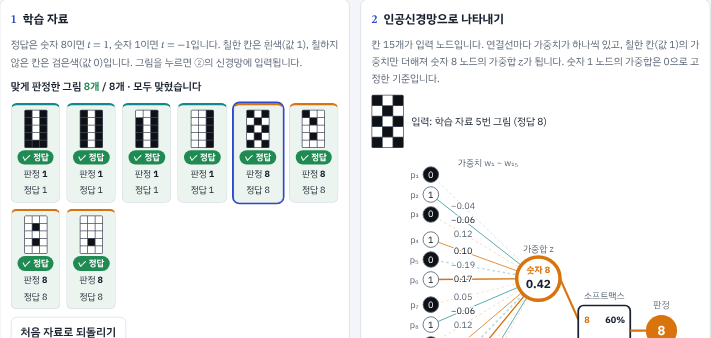
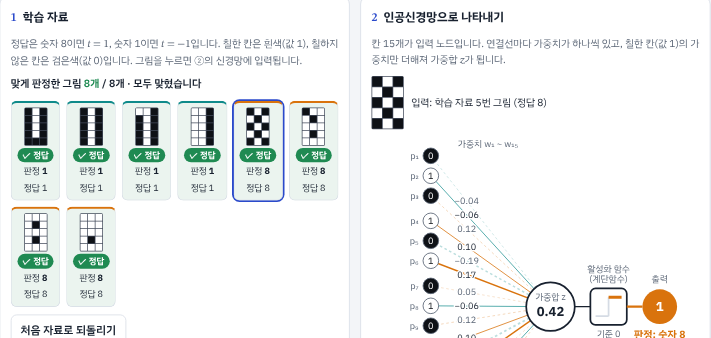
화소별 가중치 앱: 가중합을 예측값으로 설명하고 활성화 함수를 계단함수로 되돌림
- ①에 가중합 z_i를 예측값으로 보는 설명 추가, ②~③과 계산 과정을 (예측값 − 정답)으로 통일
- 출력 노드 1개 + 계단함수(z > 0이면 1=숫자 8, z ≤ 0이면 −1=숫자 1)로 판정, 소프트맥스 내용 삭제
- 손실함수를 활성화 함수 전 예측값으로 계산하는 이유(계단함수 기울기 0) 설명
- 정답/오답 표시와 15개 변수 학습 설명은 유지, 썸네일·카드 설명 갱신

Claude-Session: https://claude.ai/code/session_01N6eLL6FyNoD26bLn9wJ4ce

diff --git a/digit-weights/index.html b/digit-weights/index.html
@@ -205,7 +205,7 @@ h3{font-size:14.5px;margin:6px 0 0}
 .cnow{color:var(--eight);font-weight:600}
 .spd{font-size:12.5px;color:var(--sub);display:flex;align-items:center;gap:4px}
 .cfin{color:var(--accent)}
-/* ===== 소프트맥스·정답 표시·15개 변수 학습 (추가) ===== */
+/* ===== 정답 표시·15개 변수 학습 (추가) ===== */
 .okline{font-size:14px;font-weight:600;margin:0}
 .okline .g{color:var(--good)} .okline .x{color:var(--bad)}
 .s.right{background:color-mix(in srgb,var(--good) 9%,var(--panel))}
@@ -244,7 +244,7 @@ h3{font-size:14.5px;margin:6px 0 0}
 <header>
   <a href="../#tools" style="display:inline-block;margin:0 0 10px;color:#2563eb;font-size:14px;font-weight:700;text-decoration:none">← 연수 자료실</a>
   <h1>화소별 가중치로 숫자 구분하기</h1>
-  <p id="intro">3×5 격자의 칸마다 가중치를 하나씩 두고, 칠한 칸의 가중치를 모두 더한 <b>가중합</b> <span class="m"><i>z</i></span>로 숫자 1과 8을 구분합니다. 출력 노드는 ‘숫자 8’(가중합 <span class="m"><i>z</i></span>)과 ‘숫자 1’(가중합 0으로 고정) 두 개이고, <b>소프트맥스</b>로 확률을 구해 확률이 큰 숫자로 판정합니다. 학습하는 가중치는 15개입니다.</p>
+  <p id="intro">3×5 격자의 칸마다 가중치를 하나씩 두고, 칠한 칸의 가중치를 모두 더한 <b>가중합</b> <span class="m"><i>z</i></span>로 숫자 1과 8을 구분합니다. 활성화 함수는 <b>계단함수</b>로, 가중합이 0보다 크면 1(숫자 8), 0 이하이면 −1(숫자 1)을 출력합니다. 학습하는 가중치는 15개입니다.</p>
 </header>
 
 <div class="cols">
@@ -258,11 +258,11 @@ h3{font-size:14.5px;margin:6px 0 0}
 
 <section aria-labelledby="hn">
   <h2 id="hn"><span class="n">2</span>인공신경망으로 나타내기</h2>
-  <p class="note">칸 15개가 입력 노드입니다. 연결선마다 가중치가 하나씩 있고, 칠한 칸(값 1)의 가중치만 더해져 숫자 8 노드의 가중합 <span class="m"><i>z</i></span>가 됩니다. 숫자 1 노드의 가중합은 0으로 고정한 기준입니다.</p>
+  <p class="note">칸 15개가 입력 노드입니다. 연결선마다 가중치가 하나씩 있고, 칠한 칸(값 1)의 가중치만 더해져 가중합 <span class="m"><i>z</i></span>가 됩니다.</p>
   <div class="fedinfo" id="fedinfo"></div>
-  <div class="netwrap"><svg id="net" viewBox="0 0 346 392" role="img" aria-label="입력 노드 15개, 출력 노드 2개, 소프트맥스로 이루어진 인공신경망"></svg></div>
+  <div class="netwrap"><svg id="net" viewBox="0 0 346 392" role="img" aria-label="입력 노드 15개, 출력 노드 1개, 계단함수로 이루어진 인공신경망"></svg></div>
   <div class="legend"><span><i style="background:var(--eight)"></i>양수 가중치</span><span><i style="background:var(--one)"></i>음수 가중치</span><span>선이 굵을수록 절댓값이 큽니다</span></div>
-  <p class="note">활성화 함수는 <b>소프트맥스</b>입니다. <span class="m"><i>P</i>(8) = <span class="frac"><span><i>e</i><sup><i>z</i></sup></span><span><i>e</i><sup><i>z</i></sup> + <i>e</i><sup>0</sup></span></span></span>, <span class="m"><i>P</i>(1) = <span class="frac"><span><i>e</i><sup>0</sup></span><span><i>e</i><sup><i>z</i></sup> + <i>e</i><sup>0</sup></span></span></span>이고 두 확률의 합은 1입니다. 확률이 더 큰 숫자로 판정하므로 <span class="m"><i>z</i> &gt; 0</span>이면 8, <span class="m"><i>z</i> ≤ 0</span>이면 1입니다. (<span class="m"><i>z</i> = 0</span>이면 두 확률이 50%로 같고, 이때는 1로 판정합니다.)</p>
+  <p class="note">활성화 함수는 <b>계단함수</b>입니다. <span class="m"><i>f</i>(<i>z</i>) = 1 (<i>z</i> &gt; 0)</span>, <span class="m"><i>f</i>(<i>z</i>) = −1 (<i>z</i> ≤ 0)</span>이고, 출력이 1이면 숫자 8, −1이면 숫자 1로 판정합니다. 정답도 숫자 8이면 1, 숫자 1이면 −1로 두었으므로 출력과 정답이 같으면 맞게 판정한 것입니다.</p>
 </section>
 </div>
 
@@ -273,18 +273,19 @@ h3{font-size:14.5px;margin:6px 0 0}
       <div class="hd">① 그림마다 가중합 구하기</div>
       <p><span class="m"><i>i</i></span>번째 그림의 <span class="m"><i>k</i></span>번째 칸의 값을 <span class="m"><i>p</i><sub><i>i</i>,<i>k</i></sub></span>라 하면, <span class="m"><i>p</i><sub><i>i</i>,<i>k</i></sub></span>는 그 칸을 칠했으면 1, 아니면 0입니다. <span class="m"><i>i</i></span>번째 그림의 가중합 <span class="m"><i>z</i><sub><i>i</i></sub></span>는 다음과 같습니다.</p>
       <div class="formula"><i>z</i><sub><i>i</i></sub> = <i>w</i><sub>1</sub><i>p</i><sub><i>i</i>,1</sub> + <i>w</i><sub>2</sub><i>p</i><sub><i>i</i>,2</sub> + ⋯ + <i>w</i><sub>15</sub><i>p</i><sub><i>i</i>,15</sub></div>
-      <p>예를 들어 1번 그림의 가중합은 <span class="m"><i>z</i><sub>1</sub> = <i>w</i><sub>1</sub><i>p</i><sub>1,1</sub> + <i>w</i><sub>2</sub><i>p</i><sub>1,2</sub> + ⋯ + <i>w</i><sub>15</sub><i>p</i><sub>1,15</sub></span>입니다. 가중치 <span class="m"><i>w</i><sub>1</sub>, ⋯, <i>w</i><sub>15</sub></span>는 모든 그림에 똑같이 쓰이고, 그림마다 달라지는 것은 칸의 값뿐입니다. <span class="m"><i>i</i></span>번째 그림의 정답은 <span class="m"><i>t</i><sub><i>i</i></sub></span>라 하겠습니다.</p>
+      <p>예를 들어 1번 그림의 가중합은 <span class="m"><i>z</i><sub>1</sub> = <i>w</i><sub>1</sub><i>p</i><sub>1,1</sub> + <i>w</i><sub>2</sub><i>p</i><sub>1,2</sub> + ⋯ + <i>w</i><sub>15</sub><i>p</i><sub>1,15</sub></span>입니다. 가중치 <span class="m"><i>w</i><sub>1</sub>, ⋯, <i>w</i><sub>15</sub></span>는 모든 그림에 똑같이 쓰이고, 그림마다 달라지는 것은 칸의 값뿐입니다.</p>
+      <p>이 가중합 <span class="m"><i>z</i><sub><i>i</i></sub></span>를 <span class="m"><i>i</i></span>번째 그림에 대한 인공신경망의 <b>예측값</b>으로 봅니다. <span class="m"><i>i</i></span>번째 그림의 정답을 <span class="m"><i>t</i><sub><i>i</i></sub></span>라 하면(숫자 8이면 1, 숫자 1이면 −1), 예측값 <span class="m"><i>z</i><sub><i>i</i></sub></span>가 정답 <span class="m"><i>t</i><sub><i>i</i></sub></span>에 가까울수록 잘 예측한 것입니다.</p>
     </div>
     <div class="mstep">
-      <div class="hd">② 15개 변수의 손실함수</div>
+      <div class="hd">② 15개 변수의 손실함수: (예측값 − 정답)<sup>2</sup>의 평균</div>
       <div class="formula"><i>L</i>(<i>w</i><sub>1</sub>, <i>w</i><sub>2</sub>, ⋯, <i>w</i><sub>15</sub>) = <span class="frac"><span>1</span><span><i>n</i></span></span>{(<i>z</i><sub>1</sub> − <i>t</i><sub>1</sub>)<sup>2</sup> + (<i>z</i><sub>2</sub> − <i>t</i><sub>2</sub>)<sup>2</sup> + ⋯ + (<i>z</i><sub><i>n</i></sub> − <i>t</i><sub><i>n</i></sub>)<sup>2</sup>}</div>
-      <p><span class="m"><i>n</i></span>은 그림의 수입니다. <span class="m"><i>z</i><sub><i>i</i></sub></span>가 가중치 15개로 이루어져 있으므로 <span class="m"><i>L</i></span>은 15개 변수의 함수입니다. 판정은 소프트맥스 확률로 하지만, 손실함수는 다항함수의 미분만으로 다룰 수 있도록 소프트맥스를 거치기 전의 가중합 <span class="m"><i>z</i></span>와 정답의 차로 계산합니다. (실제 분류 모델은 소프트맥스를 거친 확률로 손실함수를 계산합니다.)</p>
+      <p><span class="m"><i>n</i></span>은 그림의 수입니다. 그림마다 예측값과 정답의 차 <span class="m"><i>z</i><sub><i>i</i></sub> − <i>t</i><sub><i>i</i></sub></span>(오차)를 제곱해 평균한 값이 손실함수이고, 예측값이 정답에 가까울수록 <span class="m"><i>L</i></span>의 값이 작아집니다. <span class="m"><i>z</i><sub><i>i</i></sub></span>가 가중치 15개로 이루어져 있으므로 <span class="m"><i>L</i></span>은 15개 변수의 함수입니다. 판정은 계단함수의 출력으로 하지만, 손실함수는 활성화 함수를 거치기 전의 가중합, 즉 예측값 <span class="m"><i>z</i><sub><i>i</i></sub></span>와 정답의 차로 계산합니다. 계단함수는 기울기가 0인 구간뿐이라 계단함수의 출력으로 손실함수를 만들면 기울기가 0이 되어 경사하강법으로 가중치를 움직일 수 없기 때문입니다.</p>
     </div>
     <div class="mstep">
       <div class="hd">③ 가중치 하나에 대한 기울기 (편미분)</div>
       <p>나머지 14개의 가중치를 상수로 보면 <span class="m"><i>z</i><sub><i>i</i></sub> = <i>p</i><sub><i>i</i>,<i>k</i></sub><i>w</i><sub><i>k</i></sub> + (상수)</span>이므로 <span class="m">(<i>z</i><sub><i>i</i></sub> − <i>t</i><sub><i>i</i></sub>)<sup>2</sup></span>은 <span class="m"><i>w</i><sub><i>k</i></sub></span>에 대한 이차식이고, <span class="m"><i>w</i><sub><i>k</i></sub></span>에 대하여 미분하면 <span class="m">2(<i>z</i><sub><i>i</i></sub> − <i>t</i><sub><i>i</i></sub>) × <i>p</i><sub><i>i</i>,<i>k</i></sub></span>입니다. 이렇게 한 변수만 남기고 미분한 것을 <b>편미분</b>이라 하고 <span class="m"><span class="frac"><span>∂<i>L</i></span><span>∂<i>w</i><sub><i>k</i></sub></span></span></span>로 나타냅니다.</p>
       <div class="formula"><span class="frac"><span>∂<i>L</i></span><span>∂<i>w</i><sub><i>k</i></sub></span></span> = <span class="frac"><span>2</span><span><i>n</i></span></span>{(<i>z</i><sub>1</sub> − <i>t</i><sub>1</sub>)<i>p</i><sub>1,<i>k</i></sub> + (<i>z</i><sub>2</sub> − <i>t</i><sub>2</sub>)<i>p</i><sub>2,<i>k</i></sub> + ⋯ + (<i>z</i><sub><i>n</i></sub> − <i>t</i><sub><i>n</i></sub>)<i>p</i><sub><i>n</i>,<i>k</i></sub>}</div>
-      <p><span class="m"><i>k</i></span>번째 칸을 칠하지 않은 그림은 <span class="m"><i>p</i><sub><i>i</i>,<i>k</i></sub> = 0</span>이라 빠집니다. 그래서 <b><span class="m"><i>k</i></span>번째 칸을 칠한 그림의 (가중합 − 정답)만 더해</b> <span class="m"><span class="frac"><span>2</span><span><i>n</i></span></span></span>을 곱하면 됩니다. 예를 들어 숫자 8 그림인데 <span class="m"><i>z</i><sub><i>i</i></sub></span>가 1보다 작으면 <span class="m"><i>z</i><sub><i>i</i></sub> − <i>t</i><sub><i>i</i></sub> &lt; 0</span>이라 그 그림이 칠한 칸의 기울기를 음수 쪽으로 당기고, 아래 ④에서 그 칸의 가중치가 커집니다.</p>
+      <p><span class="m"><i>k</i></span>번째 칸을 칠하지 않은 그림은 <span class="m"><i>p</i><sub><i>i</i>,<i>k</i></sub> = 0</span>이라 빠집니다. 그래서 <b><span class="m"><i>k</i></span>번째 칸을 칠한 그림의 (예측값 − 정답)만 더해</b> <span class="m"><span class="frac"><span>2</span><span><i>n</i></span></span></span>을 곱하면 됩니다. 예를 들어 숫자 8 그림인데 예측값 <span class="m"><i>z</i><sub><i>i</i></sub></span>가 정답 1보다 작으면 <span class="m"><i>z</i><sub><i>i</i></sub> − <i>t</i><sub><i>i</i></sub> &lt; 0</span>이라 그 그림이 칠한 칸의 기울기를 음수 쪽으로 당기고, 아래 ④에서 그 칸의 가중치가 커집니다.</p>
     </div>
     <div class="mstep">
       <div class="hd">④ 15개를 동시에 이동</div>
@@ -329,7 +330,7 @@ h3{font-size:14.5px;margin:6px 0 0}
     <div class="track" id="track"></div>
     <div class="axis2 num" id="axis2"></div>
   </div>
-  <p class="note">가로축은 가중합 <span class="m"><i>z</i></span>입니다. 기준선(<span class="m"><i>z</i> = 0</span>, <span class="m"><i>P</i>(8) = 50%</span>)의 오른쪽은 8, 왼쪽은 1로 판정합니다. 빨간 테두리는 오답입니다.</p>
+  <p class="note">가로축은 가중합 <span class="m"><i>z</i></span>입니다. 기준선(<span class="m"><i>z</i> = 0</span>)의 오른쪽은 8, 왼쪽(기준선 포함)은 1로 판정합니다. 빨간 테두리는 오답입니다.</p>
   <div class="draw">
     <div class="pad" id="pad" role="group" aria-label="3×5 그림판"></div>
     <div class="out">
@@ -339,7 +340,7 @@ h3{font-size:14.5px;margin:6px 0 0}
       <div class="row" id="addBtns"><button class="b" type="button" data-add="1">1로 자료에 추가</button><button class="b" type="button" data-add="8">8로 자료에 추가</button><button class="b" id="clearPad" type="button">지우기</button></div>
     </div>
   </div>
-  <p class="note">학습 자료에 없던 모양도 그려 보세요. 틀리는 그림은 자료에 추가하고 다시 학습하면 가중치가 달라집니다. 실제 손글씨 숫자 인식은 28×28 = 784개의 화소를 입력으로, 숫자 0~9에 맞춘 10개의 노드를 출력으로 두고 소프트맥스로 판정합니다.</p>
+  <p class="note">학습 자료에 없던 모양도 그려 보세요. 틀리는 그림은 자료에 추가하고 다시 학습하면 가중치가 달라집니다. 실제 손글씨 숫자 인식은 28×28 = 784개의 화소를 입력으로, 숫자 0~9에 맞춘 10개의 노드를 출력으로 둡니다.</p>
 </section>
 </main>
 
@@ -364,8 +365,7 @@ h3{font-size:14.5px;margin:6px 0 0}
   function sum(a){return a.reduce(function(s,v){return s+v},0)}
   function zOf(c){var s=0;for(var k=0;k<15;k++)s+=cur.W[k]*c[k];return s}
   function target(d){return d.c===8?1:-1}
-  function p8(z){return 1/(1+Math.exp(-z))}          // = e^z / (e^z + e^0)
-  function verdict(c){return zOf(c)>0?8:1}             // P(8) > 50%  ⇔  z > 0
+  function verdict(c){return zOf(c)>0?8:1}             // 계단함수: z > 0 이면 1(숫자 8), z ≤ 0 이면 −1(숫자 1)
   function loss(){var n=cur.data.length,t=0;cur.data.forEach(function(d){var e=zOf(d.cells)-target(d);t+=e*e});return n?t/n:0}
   function grads(){
     var n=cur.data.length,G=zeros();
@@ -375,7 +375,6 @@ h3{font-size:14.5px;margin:6px 0 0}
   function eta(){return parseFloat($("eta").value)}
   function fmt(v,k){var s=v.toFixed(k);if(parseFloat(s)===0)s=(0).toFixed(k);return s.replace("-","−")}
   function par(v,k){var s=fmt(v,k);return s.charAt(0)==="−"?"("+s+")":s}
-  function pct(v){return (v*100).toFixed(1)+"%"}
   function mini(cells,hl,big){
     var h='<div class="mini'+(big?' big':'')+'">';
     cells.forEach(function(v,i){var c=(v?'on':'')+(i===hl?' hl':'');h+='<b'+(c?' class="'+c+'"':'')+'></b>'});
@@ -403,55 +402,49 @@ h3{font-size:14.5px;margin:6px 0 0}
     $("okline").innerHTML='맞게 판정한 그림 <span class="g">'+ok+'개</span> / '+n+'개'+(n-ok?' · 잘못 판정한 그림 <span class="x">'+(n-ok)+'개</span>':' · 모두 맞혔습니다');
   }
 
-  /* ---------- 2. 인공신경망 (소프트맥스) ---------- */
+  /* ---------- 2. 인공신경망 (계단함수) ---------- */
   function renderNet(){
     if(cur.feed!=="pad"&&cur.feed>=cur.data.length)cur.feed=cur.data.length?0:"pad";
     var fromData=cur.feed!=="pad",cells=fromData?cur.data[cur.feed].cells:cur.pad;
     $("fedinfo").innerHTML=mini(cells,-1,true)+'<span>입력: '+(fromData?'학습 자료 '+(cur.feed+1)+'번 그림 (정답 '+cur.data[cur.feed].c+')':'내가 그린 그림')+'</span>';
-    var ix=52,ys=[],nodes="",edges="",k,z=zOf(cells),P8=p8(z),v=z>0?8:1;
-    var n8=[176,142],n1=[176,262],r=25,bx=222,bw=60,bh=58,by=202-bh/2,qx=318,qy=202;
+    var ix=52,ox=190,oy=196,r=28,ax=236,aw=42,qx=316,k,edges="",nodes="",z=zOf(cells),is8=z>0,v=is8?8:1;
+    var vc=is8?'var(--eight)':'var(--one)',mx=ax+aw/2;
     for(k=0;k<15;k++){
-      var y=22+k*23+Math.floor(k/3)*6,on=cells[k],w=cur.W[k];ys.push(y);
+      var y=22+k*23+Math.floor(k/3)*6,on=cells[k],w=cur.W[k];
       var col=w>=0?'var(--eight)':'var(--one)',sw=Math.max(0.8,Math.min(7,Math.abs(w)*9));
-      var lx=ix+0.3*(n8[0]-ix),ly=y+0.3*(n8[1]-y);
-      edges+='<line x1="'+ix+'" y1="'+y+'" x2="'+n8[0]+'" y2="'+n8[1]+'" style="stroke:'+col+';stroke-width:'+sw.toFixed(1)+';opacity:'+(on?1:0.28)+(on?'':';stroke-dasharray:3 3')+'"/>'+
+      var lx=ix+0.3*(ox-ix),ly=y+0.3*(oy-y);
+      edges+='<line x1="'+ix+'" y1="'+y+'" x2="'+ox+'" y2="'+oy+'" style="stroke:'+col+';stroke-width:'+sw.toFixed(1)+';opacity:'+(on?1:0.28)+(on?'':';stroke-dasharray:3 3')+'"/>'+
         '<text class="wl" x="'+lx.toFixed(1)+'" y="'+(ly+3.5).toFixed(1)+'" text-anchor="middle" style="'+(on?'':'fill:var(--sub)')+'">'+fmt(w,2)+'</text>';
       nodes+='<circle cx="'+ix+'" cy="'+y+'" r="9" style="fill:'+(on?'var(--pix-on)':'var(--pix-off)')+';stroke:var(--sub);stroke-width:1"/>'+
         '<text x="'+ix+'" y="'+(y+3.5)+'" text-anchor="middle" style="fill:'+(on?'#0e1116':'#ffffff')+'">'+on+'</text>'+
         '<text class="sub" x="'+(ix-14)+'" y="'+(y+3.5)+'" text-anchor="end">p'+subn(k+1)+'</text>';
     }
-    var vc=v===8?'var(--eight)':'var(--one)';
     var h=edges+nodes+
       '<text class="sub" x="'+ix+'" y="388" text-anchor="middle">입력층</text>'+
       '<text class="sub" x="118" y="12" text-anchor="middle">가중치 w₁ ~ w₁₅</text>'+
-      // 출력 노드 2개
-      '<circle cx="'+n8[0]+'" cy="'+n8[1]+'" r="'+r+'" style="fill:var(--panel);stroke:var(--eight);stroke-width:'+(v===8?4:2)+'"/>'+
-      '<text x="'+n8[0]+'" y="'+(n8[1]-7)+'" text-anchor="middle" style="fill:var(--eight);font-weight:700">숫자 8</text>'+
-      '<text class="big" x="'+n8[0]+'" y="'+(n8[1]+11)+'" text-anchor="middle" style="font-size:13.5px">'+fmt(z,2)+'</text>'+
-      '<text class="sub" x="'+n8[0]+'" y="'+(n8[1]-r-6)+'" text-anchor="middle">가중합 z</text>'+
-      '<circle cx="'+n1[0]+'" cy="'+n1[1]+'" r="'+r+'" style="fill:var(--panel);stroke:var(--one);stroke-width:'+(v===1?4:2)+'"/>'+
-      '<text x="'+n1[0]+'" y="'+(n1[1]-7)+'" text-anchor="middle" style="fill:var(--one);font-weight:700">숫자 1</text>'+
-      '<text class="big" x="'+n1[0]+'" y="'+(n1[1]+11)+'" text-anchor="middle" style="font-size:13.5px">0</text>'+
-      '<text class="sub" x="'+n1[0]+'" y="'+(n1[1]+r+13)+'" text-anchor="middle">0으로 고정(기준)</text>'+
-      // 소프트맥스
-      '<line x1="'+(n8[0]+r)+'" y1="'+n8[1]+'" x2="'+bx+'" y2="'+(by+16)+'" style="stroke:'+(v===8?'var(--eight)':'var(--line)')+';stroke-width:'+(v===8?2.5:1.2)+'"/>'+
-      '<line x1="'+(n1[0]+r)+'" y1="'+n1[1]+'" x2="'+bx+'" y2="'+(by+bh-16)+'" style="stroke:'+(v===1?'var(--one)':'var(--line)')+';stroke-width:'+(v===1?2.5:1.2)+'"/>'+
-      '<rect x="'+bx+'" y="'+by+'" width="'+bw+'" height="'+bh+'" rx="6" style="fill:var(--panel);stroke:var(--ink);stroke-width:2"/>'+
-      '<text class="sub" x="'+(bx+bw/2)+'" y="'+(by-7)+'" text-anchor="middle">소프트맥스</text>'+
-      '<text x="'+(bx+7)+'" y="'+(by+20)+'" style="fill:var(--eight);font-weight:700">8</text>'+
-      '<text x="'+(bx+bw-6)+'" y="'+(by+20)+'" text-anchor="end" style="'+(v===8?'font-weight:700':'fill:var(--sub)')+'">'+Math.round(P8*100)+'%</text>'+
-      '<text x="'+(bx+7)+'" y="'+(by+bh-10)+'" style="fill:var(--one);font-weight:700">1</text>'+
-      '<text x="'+(bx+bw-6)+'" y="'+(by+bh-10)+'" text-anchor="end" style="'+(v===1?'font-weight:700':'fill:var(--sub)')+'">'+Math.round((1-P8)*100)+'%</text>'+
-      '<text class="sub" x="'+(bx+bw/2)+'" y="'+(by+bh+14)+'" text-anchor="middle">확률</text>'+
-      // 판정
-      '<line x1="'+(bx+bw)+'" y1="'+qy+'" x2="'+(qx-18)+'" y2="'+qy+'" style="stroke:'+vc+';stroke-width:2.5"/>'+
-      '<circle cx="'+qx+'" cy="'+qy+'" r="18" style="fill:'+vc+'"/>'+
-      '<text class="big" x="'+qx+'" y="'+(qy+5.5)+'" text-anchor="middle" style="fill:var(--panel)">'+v+'</text>'+
-      '<text class="sub" x="'+qx+'" y="'+(qy-26)+'" text-anchor="middle">판정</text>';
+      // 가중합 노드
+      '<circle cx="'+ox+'" cy="'+oy+'" r="'+r+'" style="fill:var(--panel);stroke:var(--ink);stroke-width:2"/>'+
+      '<text class="sub" x="'+ox+'" y="'+(oy-8)+'" text-anchor="middle">가중합 z</text>'+
+      '<text class="big" x="'+ox+'" y="'+(oy+11)+'" text-anchor="middle">'+fmt(z,2)+'</text>'+
+      '<line x1="'+(ox+r)+'" y1="'+oy+'" x2="'+ax+'" y2="'+oy+'" style="stroke:var(--ink);stroke-width:1.5"/>'+
+      // 계단함수 상자
+      '<rect x="'+ax+'" y="'+(oy-21)+'" width="'+aw+'" height="42" rx="6" style="fill:var(--panel);stroke:var(--ink);stroke-width:2"/>'+
+      '<polyline points="'+(ax+6)+','+(oy+11)+' '+mx+','+(oy+11)+'" style="fill:none;stroke:'+(is8?'var(--line)':'var(--one)')+';stroke-width:'+(is8?2:3.5)+'"/>'+
+      '<polyline points="'+mx+','+(oy+11)+' '+mx+','+(oy-11)+'" style="fill:none;stroke:var(--line);stroke-width:2"/>'+
+      '<polyline points="'+mx+','+(oy-11)+' '+(ax+aw-6)+','+(oy-11)+'" style="fill:none;stroke:'+(is8?'var(--eight)':'var(--line)')+';stroke-width:'+(is8?3.5:2)+'"/>'+
+      '<text class="sub" x="'+mx+'" y="'+(oy-40)+'" text-anchor="middle">활성화 함수</text>'+
+      '<text class="sub" x="'+mx+'" y="'+(oy-28)+'" text-anchor="middle">(계단함수)</text>'+
+      '<text class="sub" x="'+mx+'" y="'+(oy+35)+'" text-anchor="middle">기준 0</text>'+
+      // 출력과 판정
+      '<line x1="'+(ax+aw)+'" y1="'+oy+'" x2="'+(qx-20)+'" y2="'+oy+'" style="stroke:'+vc+';stroke-width:2.5"/>'+
+      '<circle cx="'+qx+'" cy="'+oy+'" r="20" style="fill:'+vc+'"/>'+
+      '<text class="big" x="'+qx+'" y="'+(oy+5.5)+'" text-anchor="middle" style="fill:var(--panel)">'+(is8?'1':'−1')+'</text>'+
+      '<text class="sub" x="'+qx+'" y="'+(oy-28)+'" text-anchor="middle">출력</text>'+
+      '<text x="'+qx+'" y="'+(oy+36)+'" text-anchor="middle" style="font-weight:700;font-size:12px;fill:'+vc+'">판정: 숫자 '+v+'</text>';
     if(fromData){
       var ok=v===cur.data[cur.feed].c;
-      h+='<rect x="'+(qx-27)+'" y="'+(qy+26)+'" width="54" height="22" rx="11" style="fill:'+(ok?'var(--good)':'var(--bad)')+'"/>'+
-        '<text x="'+qx+'" y="'+(qy+41)+'" text-anchor="middle" style="fill:#fff;font-weight:700;font-size:12px">'+(ok?'✓ 정답':'✗ 오답')+'</text>';
+      h+='<rect x="'+(qx-27)+'" y="'+(oy+46)+'" width="54" height="22" rx="11" style="fill:'+(ok?'var(--good)':'var(--bad)')+'"/>'+
+        '<text x="'+qx+'" y="'+(oy+61)+'" text-anchor="middle" style="fill:#fff;font-weight:700;font-size:12px">'+(ok?'✓ 정답':'✗ 오답')+'</text>';
     }
     $("net").innerHTML=h;
   }
@@ -477,7 +470,7 @@ h3{font-size:14.5px;margin:6px 0 0}
     var inner=used.length?used.map(function(e){return par(e,3)}).join(' + '):'0';
     var gval=G[gk];
     $("work").innerHTML=
-      '<div><b>'+cellName(gk)+'</b>의 가중치 <span class="m">'+wk+'</span>의 기울기를 지금 가중치로 계산합니다. 파란 테두리 칸을 칠한 그림만 (가중합 − 정답)을 더합니다.</div>'+
+      '<div><b>'+cellName(gk)+'</b>의 가중치 <span class="m">'+wk+'</span>의 기울기를 지금 가중치로 계산합니다. 파란 테두리 칸을 칠한 그림만 (예측값 <span class="m"><i>z</i><sub><i>i</i></sub></span> − 정답 <span class="m"><i>t</i><sub><i>i</i></sub></span>)을 더합니다.</div>'+
       '<div class="wlist">'+pics+'</div>'+
       '<div class="formula">'+dk+' = <span class="frac"><span>2</span><span>'+n+'</span></span> × {'+inner+'} = '+fmt(gval,3)+'</div>'+
       '<div class="formula">'+wk+' ← '+fmt(cur.W[gk],3)+' − '+r+' × '+par(gval,3)+' = '+fmt(cur.W[gk]-r*gval,3)+'</div>'+
@@ -493,7 +486,7 @@ h3{font-size:14.5px;margin:6px 0 0}
   function renderTrack(){
     var z0=tpos(0);
     var h='<div class="zone1" style="width:'+z0+'%"></div><div class="zone8" style="left:'+z0+'%"></div>'+
-      '<div class="thr" style="left:'+z0+'%"><span>기준 0 (50%)</span></div>'+
+      '<div class="thr" style="left:'+z0+'%"><span>기준 0</span></div>'+
       '<div class="lane" style="top:22px">정답 1</div><div class="lane" style="top:48px">정답 8</div>';
     cur.data.forEach(function(d){
       var wrong=verdict(d.cells)!==d.c;
@@ -503,15 +496,10 @@ h3{font-size:14.5px;margin:6px 0 0}
     $("track").innerHTML=h;
   }
   function renderPad(){
-    var btns=$("pad").children,x=sum(cur.pad),z=zOf(cur.pad),P8=p8(z),v=verdict(cur.pad);
+    var btns=$("pad").children,x=sum(cur.pad),z=zOf(cur.pad),v=verdict(cur.pad);
     for(var i=0;i<15;i++){btns[i].classList.toggle("on",!!cur.pad[i]);btns[i].setAttribute("aria-pressed",cur.pad[i]?"true":"false")}
-    $("myCalc").innerHTML='칠한 '+x+'칸의 가중치의 합 <i>z</i> = '+fmt(z,3);
-    var h='<div class="bar" style="color:var(--sub);font-size:12px"><span></span><span>소프트맥스 확률</span><span></span></div>';
-    [[8,P8,'var(--eight)'],[1,1-P8,'var(--one)']].forEach(function(q){
-      h+='<div class="bar'+(x>0&&v===q[0]?' win':'')+'"><span style="color:'+q[2]+'">숫자 '+q[0]+'</span>'+
-        '<div class="tr"><div class="fl" style="left:0;width:'+(q[1]*100).toFixed(1)+'%;background:'+q[2]+'"></div></div><span>'+pct(q[1])+'</span></div>';
-    });
-    $("bars").innerHTML=h;
+    $("myCalc").innerHTML='칠한 '+x+'칸의 가중치의 합 <i>z</i> = '+fmt(z,3)+'<br><i>f</i>(<i>z</i>) = '+(z>0?'1':'−1');
+    $("bars").innerHTML="";
     $("myVerdict").innerHTML=x===0?'<span class="note">칸을 눌러 숫자를 그려 보세요.</span>':'판정 <span class="pill d'+v+'">'+v+'</span>';
   }
 
@@ -553,7 +541,7 @@ h3{font-size:14.5px;margin:6px 0 0}
   }
   function resetW(){
     stopAuto();cur.W=zeros();cur.steps=0;newHist();
-    say("가중치가 모두 0이라 모든 그림의 가중합이 0이고, 두 확률이 50%로 같아 모두 1로 판정합니다. ‘15개 모두 한 번 이동’을 눌러 보세요.");
+    say("가중치가 모두 0이라 모든 그림의 가중합이 0이고, 계단함수의 출력이 −1이라 모두 1로 판정합니다. ‘15개 모두 한 번 이동’을 눌러 보세요.");
     renderAll();
   }
 

diff --git a/site-config.js b/site-config.js
@@ -153,8 +153,8 @@ const TOOLS = [
     subject: "4단원",
     type: "실습",
     symbol: "▦",
-    description: "3×5 숫자 그림의 칸마다 가중치를 두고, 15개 변수의 손실함수와 경사하강법으로 학습한 뒤 소프트맥스로 숫자 1과 8을 판정합니다.",
-    tags: ["화소", "가중치", "숫자 분류", "인공신경망", "소프트맥스", "손실함수", "편미분", "경사하강법"],
+    description: "3×5 숫자 그림의 칸마다 가중치를 두고, 15개 변수의 손실함수와 경사하강법으로 학습한 뒤 계단함수로 숫자 1과 8을 판정합니다.",
+    tags: ["화소", "가중치", "숫자 분류", "인공신경망", "계단함수", "손실함수", "편미분", "경사하강법"],
     url: "./digit-weights/"
   },
   {
